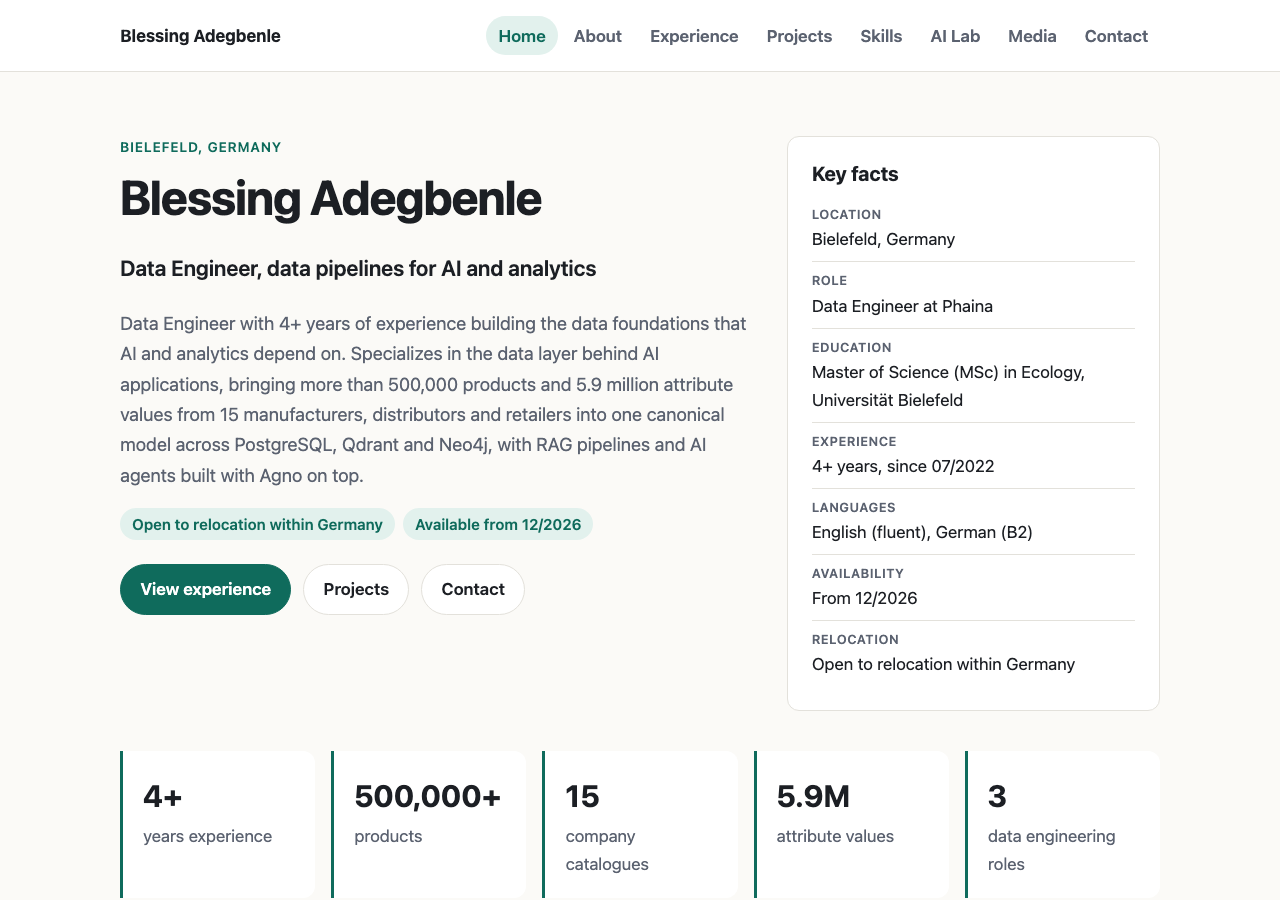
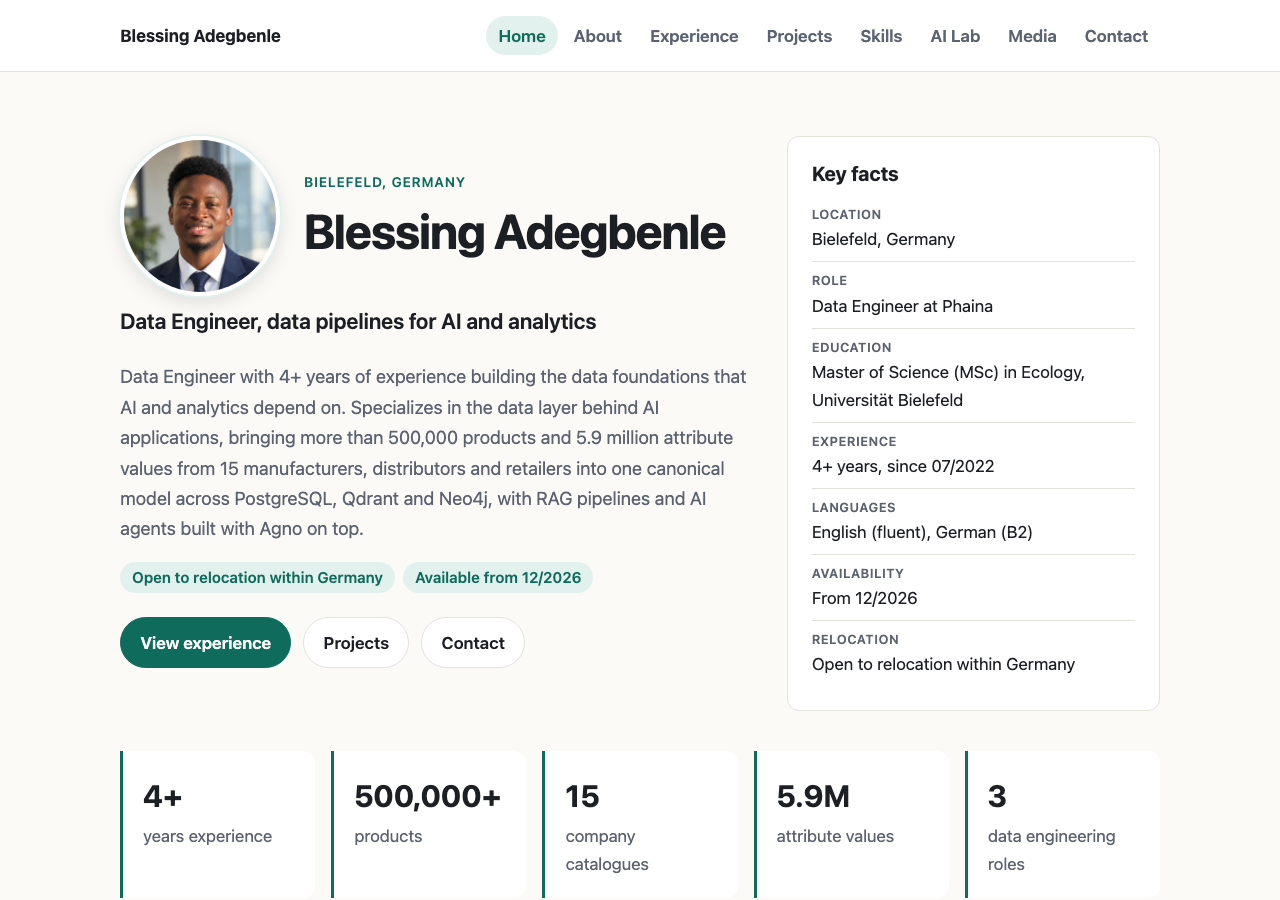
Add profile photo to home and About pages

Changed region(s): [[0.0938, 0.1556, 0.5938, 0.7467]]

diff --git a/site/static/style.css b/site/static/style.css
@@ -931,3 +931,50 @@ dd {
 .recorded .cards {
   align-items: start;
 }
+
+/* Profile photo */
+
+.hero-identity {
+  display: flex;
+  align-items: center;
+  gap: 1.5rem;
+  margin-bottom: 0.5rem;
+}
+
+.hero-identity h1 {
+  margin-bottom: 0;
+}
+
+.profile-photo {
+  flex-shrink: 0;
+  width: 160px;
+  height: 160px;
+  border-radius: 50%;
+  object-fit: cover;
+  border: 4px solid var(--surface);
+  box-shadow: 0 0 0 2px var(--accent-soft), 0 6px 20px rgb(0 0 0 / 12%);
+}
+
+.profile-photo-large {
+  width: 200px;
+  height: 200px;
+}
+
+.about-header {
+  display: flex;
+  align-items: center;
+  gap: 2rem;
+}
+
+@media (max-width: 600px) {
+  .hero-identity,
+  .about-header {
+    flex-direction: column;
+    align-items: flex-start;
+  }
+
+  .profile-photo {
+    width: 120px;
+    height: 120px;
+  }
+}

diff --git a/site/templates/home.html b/site/templates/home.html
@@ -3,8 +3,15 @@
 {% block content %}
 <div class="home-top">
   <section class="hero">
-    <p class="eyebrow">{{ profile.location }}</p>
-    <h1>{{ profile.name }}</h1>
+    <div class="hero-identity">
+      {% if profile.photo %}
+      <img class="profile-photo" src="{{ url('static/' ~ profile.photo) }}" alt="Photo of {{ profile.name }}" width="160" height="160">
+      {% endif %}
+      <div>
+        <p class="eyebrow">{{ profile.location }}</p>
+        <h1>{{ profile.name }}</h1>
+      </div>
+    </div>
     <p class="headline">{{ profile.headline }}</p>
     <p class="intro">{{ profile.intro }}</p>
     {% if profile.relocation or profile.available %}

diff --git a/site/templates/about.html b/site/templates/about.html
@@ -1,9 +1,14 @@
 {% extends "base.html" %}
 {% block title %}About | {{ profile.name }}{% endblock %}
 {% block content %}
-<header class="page-header">
-  <h1>{{ about.title }}</h1>
-  <p class="lead">{{ profile.headline }}, based in {{ profile.location }}.</p>
+<header class="page-header about-header">
+  {% if profile.photo %}
+  <img class="profile-photo profile-photo-large" src="{{ url('static/' ~ profile.photo) }}" alt="Photo of {{ profile.name }}" width="200" height="200">
+  {% endif %}
+  <div>
+    <h1>{{ about.title }}</h1>
+    <p class="lead">{{ profile.headline }}, based in {{ profile.location }}.</p>
+  </div>
 </header>
 
 <div class="about">

diff --git a/tests/test_site.py b/tests/test_site.py
@@ -92,3 +92,12 @@ def test_home_shows_key_facts_and_explore_cards():
     html = client.get("/").text
     for text in ("Key facts", "Explore", "data engineering roles", "Available from 12/2026"):
         assert text in html
+
+
+@pytest.mark.parametrize("path", ["/", "/about"])
+def test_profile_photo_is_shown_with_alt_text(path):
+    html = client.get(path).text
+    assert 'src="/static/profile.jpg" alt="Photo of Blessing Adegbenle"' in html
+    image = client.get("/static/profile.jpg")
+    assert image.status_code == 200
+    assert image.headers["content-type"] == "image/jpeg"

diff --git a/content/profile.md b/content/profile.md
@@ -7,6 +7,7 @@ linkedin: linkedin.com/in/blessing-ayodeji
 github: github.com/adegbenleb
 languages: [English (fluent), German (B2)]
 relocation: Open to relocation within Germany
+photo: profile.jpg
 available_from: 2026-12
 highlights:
   - {value: "4+", label: years experience}
